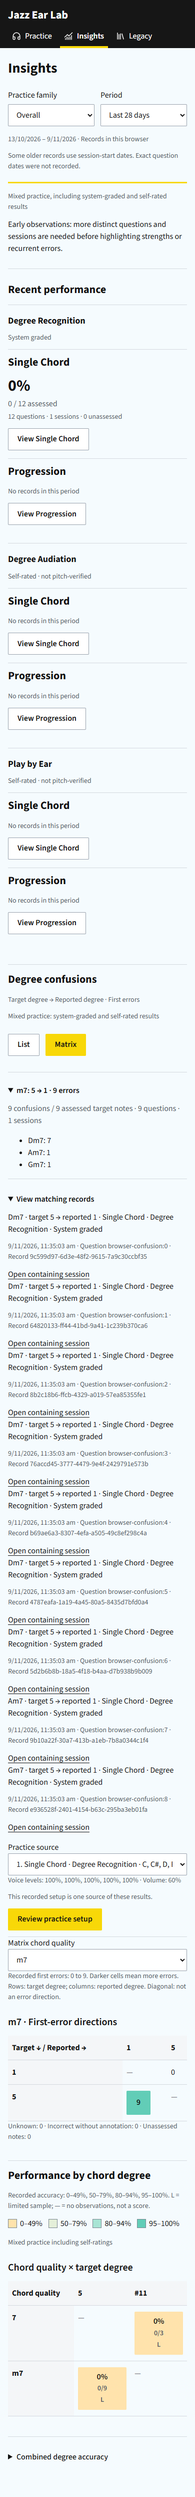
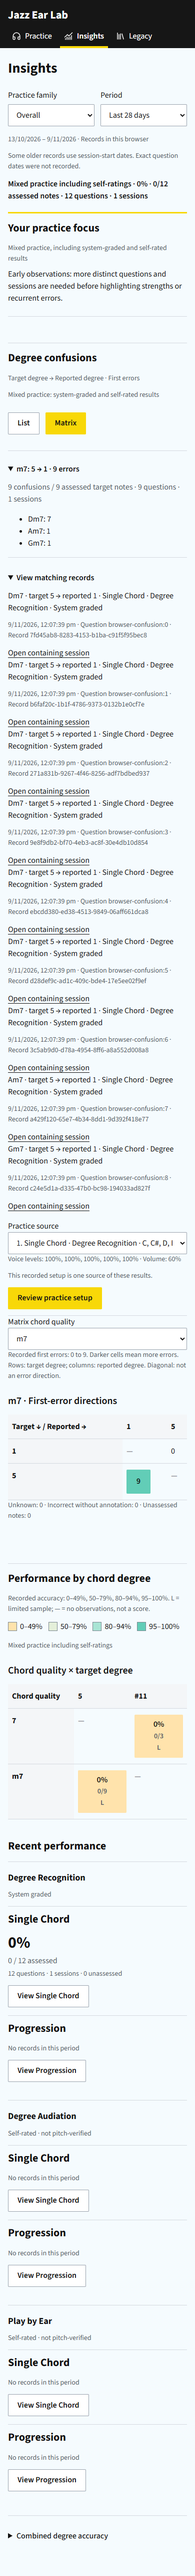
test(v2): complete Insights integration and regression acceptance (#32)

Changed region(s): [[0.0308, 0.0, 0.9538, 0.995], [0.7692, 0.3109, 0.8615, 0.342]]

diff --git a/src/v2/insights-ui.ts b/src/v2/insights-ui.ts
@@ -7,7 +7,7 @@ function recordedSources(records:InsightRecord[]){return [...new Map(records.fil
 function sourceOptionLabel(r:InsightRecord,i:number){const c=r.source,levels='mode'in c?c.levels:c.voiceLevels??[1,1,1,1,1];return `${i+1}. ${exerciseNames[r.a.exercise]} · ${insightConditionLabel(r)} · Volume ${Math.round(c.volume*100)}% · Voices ${levels.map(v=>Math.round(v*100)+'%').join(', ')}`;}
 
 function practiceSummarySection(records:InsightRecord[],onSetup?: (record:InsightRecord,label:string,filters:InsightFilters)=>void){
- const report=insightPracticeSummary(records),section=el('section','','practice-summary');
+ const report=insightPracticeSummary(records),section=el('section','','insight-practice-summary');
  section.append(el('h2','Your practice focus'));
  if(view.family==='Overall')section.append(el('p','Mixed practice, including system-graded and self-rated results','insight-scope-note'));
  if(report.message)section.append(el('p',report.message));
@@ -172,6 +172,7 @@ try{const saved=JSON.parse(sessionStorage.getItem('jazzEarLab:v2:insightView')??
 function el<K extends keyof HTMLElementTagNameMap>(tag:K,text='',cls=''){const n=document.createElement(tag);n.textContent=text;n.className=cls;return n;}
 function details(title:string,...nodes:HTMLElement[]){const n=el('details');n.append(el('summary',title),...nodes);return n;}
 const percent=(m:ReturnType<typeof insightStats>)=>m.n?Math.round(100*m.correct/m.n)+'%':'—';
+function musicalOverview(records:InsightRecord[],onSetup?: (record:InsightRecord,label:string,filters:InsightFilters)=>void){const n=el('div','','insight-musical-overview');n.append(confusionSection(records,onSetup),performanceSection(records,onSetup));return n;}
 export function renderInsights(host:HTMLElement,sessions:Session[],runs:InsightRun[],evidence:Attempt[],onSetup?:(record:InsightRecord,label:string,filters:InsightFilters)=>void){
  const all=insightRecords(sessions,runs,evidence);
  function render(){
@@ -203,14 +204,18 @@ export function renderInsights(host:HTMLElement,sessions:Session[],runs:InsightR
   host.append(el('p',(view.days?`${dateLabel(period.start)} – ${dateLabel(period.end-1)}`:'All recorded dates')+' · Records in this browser','insight-scope-note'));
   if(all.some(r=>r.dateSource==='session'))host.append(el('p','Some older records use session-start dates. Exact question dates were not recorded.','insight-scope-note'));
   if(all.some(r=>r.time===null))host.append(el('p',`${all.filter(r=>r.time===null).length} records have no usable date; available in All time.`,'insight-scope-note'));
+  const currentScope=el('div','','insight-current-scope');host.append(currentScope);
+  const scopeFilters=Object.entries({key:view.key,root:view.root,quality:view.quality,chord:view.chord,degree:view.degree}).filter(([,value])=>value);
+  if(scopeFilters.length)currentScope.append(el('p','Filters: '+scopeFilters.map(([key,value])=>key+': '+value+(key==='key'&&view.family==='Overall'?' (progression only)':'')).join(' · ')));
   const outcome=(records:InsightRecord[],title:string,compact=false)=>{const m=insightStats(records),block=el('section','','insight-outcome');block.setAttribute('aria-label',title);if(compact&&!m.questions){block.append(el('h2',title),el('p','No records in this period','insight-scope-note'));return block;}block.append(el('h2',title),el('p',percent(m),'metric-number'),el('p',`${m.correct} / ${m.n} assessed`,'assessment-count'),el('p',`${m.questions} questions · ${m.sessions} sessions · ${m.unassessed} unassessed`,'insight-scope-note'));if(!compact||m.replayed)block.append(el('p',`Replay-assisted first responses: ${m.replayed} / ${m.n}`,'insight-scope-note'));block.dataset.assessed=String(m.n);block.dataset.correct=String(m.correct);return block;};
   if(view.family==='Overall'){
    const overviewRows=insightFilter(scope,{root:view.root,quality:view.quality,chord:view.chord,degree:view.degree}).filter(r=>!view.key||r.context==='Single Chord'||r.key===view.key);
-   host.append(practiceSummarySection(overviewRows,onSetup),el('h2','Recent performance'));
-   const active=Object.entries({key:view.key,root:view.root,quality:view.quality,chord:view.chord,degree:view.degree}).filter(([,value])=>value);if(active.length)host.append(el('p','Filters: '+active.map(([key,value])=>key+': '+value+(key==='key'?' (progression only)':'')).join(' · ')),button('Clear filters',reset));
+   const total=insightStats(overviewRows);host.append(el('p',`Mixed practice including self-ratings · ${percent(total)} · ${total.correct}/${total.n} assessed notes · ${total.questions} questions · ${total.sessions} sessions`,'insight-total-line'));
+   host.append(practiceSummarySection(overviewRows,onSetup),musicalOverview(overviewRows,onSetup),el('h2','Recent performance'));
+   if(scopeFilters.length)currentScope.append(button('Clear filters',reset));
    if(!scope.length){host.append(el('p',all.length?'No matching records in this period. Try a wider period.':'No V2 records in this browser. Choose an exercise to begin.'),button('Show all time',()=>{view.days=0;}));const link=el('a','Choose an exercise');link.href='#home';host.append(link);finish();return;}
    for(const family of families){const section=el('section','','insight-family');section.append(el('h3',family),el('p',family==='Degree Recognition'?'System graded':'Self-rated · not pitch-verified','insight-scope-note'));const grid=el('div','','insight-family-contexts');for(const context of ['Single Chord','Progression'] as const){const records=overviewRows.filter(r=>r.family===family&&r.context===context),block=outcome(records,context,true);const enter=button('View '+context+' · '+family,()=>changeScope(family,context));enter.setAttribute('aria-label','View '+context+' · '+family);enter.textContent='View '+context;block.append(enter);grid.append(block);}section.append(grid);host.append(section);}
-   host.append(confusionSection(overviewRows,onSetup),performanceSection(overviewRows,onSetup),details('Combined degree accuracy',outcome(overviewRows,'Mixed practice including self-ratings')));
+   host.append(details('Combined degree accuracy',outcome(overviewRows,'Mixed practice including self-ratings')));
   }else{
    const mode=Object.entries(exerciseNames).find(([,name])=>name===view.context+' · '+view.family)![0];
    const allMode=all.filter(r=>r.a.exercise===mode).filter(r=>(!view.condition||insightStratum(r)===view.condition)&&(!view.setup||insightSetupId(r)===view.setup)).filter(r=>mode!=='m1'||view.production==='all'||(view.production==='played'?r.a.responseMethod==='played':['imagined','sung'].includes(r.a.responseMethod)));
@@ -218,8 +223,8 @@ export function renderInsights(host:HTMLElement,sessions:Session[],runs:InsightR
    let rows=insightFilter(modeRows,{key:view.key,root:view.root,quality:view.quality,chord:view.chord,degree:view.degree});
    if(mode==='m1'&&view.production!=='all')rows=rows.filter(r=>view.production==='played'?r.a.responseMethod==='played':['imagined','sung'].includes(r.a.responseMethod));
    host.append(el('h2',view.context+' · '+view.family),el('p',view.family==='Degree Recognition'?'System graded':'Self-rated · not pitch-verified','insight-assessment'));
-   host.append(practiceSummarySection(rows,onSetup));
    const result=outcome(rows,view.family==='Degree Recognition'?'First-answer accuracy':'Self-rated accuracy');host.append(result);
+   host.append(practiceSummarySection(rows,onSetup));
    if(!modeRows.length||!rows.length){
     host.append(el('p',Object.entries({key:view.key,root:view.root,quality:view.quality,chord:view.chord,degree:view.degree}).filter(([,value])=>value).map(([key,value])=>key+': '+value).join(' · '),'insight-scope-note'));
     host.append(el('p',!rows.length&&modeRows.length?'No records match these filters.':all.some(r=>r.a.exercise===mode)?'No matching records in this period. Try a wider period.':'No records for this exercise yet.'),button('Show all time',()=>{view.days=0;}),button('Clear filters',()=>{reset();view.production='all';}),button('Practice '+exerciseNames[mode as keyof typeof exerciseNames],()=>{const progression=modeForExercise(mode);location.hash=progression?'progression/'+progression:'home';}));finish();return;
@@ -241,12 +246,12 @@ export function renderInsights(host:HTMLElement,sessions:Session[],runs:InsightR
     if(onSetup&&item.basis.sourceKnown){const setup=button('Setup practice: '+item.label,()=>onSetup(item.basis,item.label,item.filters));setup.setAttribute('aria-label','Setup practice: '+item.label);setup.textContent='Setup practice';setup.classList.remove('secondary');row.append(setup);}
     const evidenceButton=button('View evidence: '+item.label,()=>{reset();Object.assign(view,item.filters);if(item.kind==='error')view.condition=insightStratum(item.basis)??'';else view.setup=insightSetupId(item.basis);view.dimension=item.filters.degree?'Degree':'Chord';});evidenceButton.setAttribute('aria-label','View evidence: '+item.label);evidenceButton.textContent='View evidence';row.append(evidenceButton);
     (item.kind==='gap'?coverage:next).append(row);
-   }next.append(coverage);const lead=el('div','','insight-lead'),performance=el('div');performance.append(result,trendSection);lead.append(performance,next);host.append(lead);
-   host.append(confusionSection(rows,onSetup),performanceSection(rows,onSetup));
+   }next.append(coverage);const lead=el('div','','insight-lead'),performance=el('div');performance.append(trendSection);lead.append(performance,next);
+   host.append(musicalOverview(rows,onSetup),lead);
    const analysis=el('section','','insight-analysis');analysis.append(el('h2','Explore the music'));
    const tabs=el('div','','insight-tabs');
    for(const name of ['Key','Chord','Degree'])tabs.append(button(name==='Key'&&view.context==='Single Chord'?'Chord root':name,()=>{view.dimension=name;view.all=false;},view.dimension===name));analysis.append(tabs);
-   const chips=el('div','','insight-chips');if(view.condition)chips.append(button('Matching practice conditions · remove',()=>{view.condition='';}));if(view.setup)chips.append(button('Coverage setup · remove',()=>{view.setup='';}));for(const name of ['key','root','quality','chord','degree'] as const)if(view[name])chips.append(button(name+': '+view[name]+' · remove',()=>{view[name]='';}));if(chips.children.length)chips.append(button('Clear filters',reset));analysis.append(chips);
+   const chips=el('div','','insight-chips');if(view.condition)chips.append(button('Matching practice conditions · remove',()=>{view.condition='';}));if(view.setup)chips.append(button('Coverage setup · remove',()=>{view.setup='';}));for(const name of ['key','root','quality','chord','degree'] as const)if(view[name])chips.append(button(name+': '+view[name]+' · remove',()=>{view[name]='';}));if(chips.children.length)chips.append(button('Clear filters',reset));currentScope.replaceChildren(chips);
    const filters=el('div','','insight-filters');
    filters.append(select('Root',view.root||'All roots',['All roots',...new Set(modeRows.map(r=>r.root))],v=>{view.root=v==='All roots'?'':v;}),select('Chord quality',view.quality||'All qualities',['All qualities',...new Set(modeRows.map(r=>r.quality))],v=>{view.quality=v==='All qualities'?'':v;}));
    if(mode==='m1')filters.append(select('Production category',view.production,['all','imagined-sung','played'],v=>{view.production=v;}));

diff --git a/js/v2/insights-ui.js b/js/v2/insights-ui.js
@@ -4,7 +4,7 @@ import { insightConfusions, insightHeatmap, insightConfusionMatrix, insightPract
 function recordedSources(records) { return [...new Map(records.filter(r => r.sourceKnown).map(r => [r.a.exercise + '|' + insightSetupId(r), r])).values()]; }
 function sourceOptionLabel(r, i) { const c = r.source, levels = 'mode' in c ? c.levels : c.voiceLevels ?? [1, 1, 1, 1, 1]; return `${i + 1}. ${exerciseNames[r.a.exercise]} · ${insightConditionLabel(r)} · Volume ${Math.round(c.volume * 100)}% · Voices ${levels.map(v => Math.round(v * 100) + '%').join(', ')}`; }
 function practiceSummarySection(records, onSetup) {
-    const report = insightPracticeSummary(records), section = el('section', '', 'practice-summary');
+    const report = insightPracticeSummary(records), section = el('section', '', 'insight-practice-summary');
     section.append(el('h2', 'Your practice focus'));
     if (view.family === 'Overall')
         section.append(el('p', 'Mixed practice, including system-graded and self-rated results', 'insight-scope-note'));
@@ -411,6 +411,7 @@ catch { /* View preferences never block history. */ }
 function el(tag, text = '', cls = '') { const n = document.createElement(tag); n.textContent = text; n.className = cls; return n; }
 function details(title, ...nodes) { const n = el('details'); n.append(el('summary', title), ...nodes); return n; }
 const percent = (m) => m.n ? Math.round(100 * m.correct / m.n) + '%' : '—';
+function musicalOverview(records, onSetup) { const n = el('div', '', 'insight-musical-overview'); n.append(confusionSection(records, onSetup), performanceSection(records, onSetup)); return n; }
 export function renderInsights(host, sessions, runs, evidence, onSetup) {
     const all = insightRecords(sessions, runs, evidence);
     function render() {
@@ -484,6 +485,11 @@ export function renderInsights(host, sessions, runs, evidence, onSetup) {
             host.append(el('p', 'Some older records use session-start dates. Exact question dates were not recorded.', 'insight-scope-note'));
         if (all.some(r => r.time === null))
             host.append(el('p', `${all.filter(r => r.time === null).length} records have no usable date; available in All time.`, 'insight-scope-note'));
+        const currentScope = el('div', '', 'insight-current-scope');
+        host.append(currentScope);
+        const scopeFilters = Object.entries({ key: view.key, root: view.root, quality: view.quality, chord: view.chord, degree: view.degree }).filter(([, value]) => value);
+        if (scopeFilters.length)
+            currentScope.append(el('p', 'Filters: ' + scopeFilters.map(([key, value]) => key + ': ' + value + (key === 'key' && view.family === 'Overall' ? ' (progression only)' : '')).join(' · ')));
         const outcome = (records, title, compact = false) => { const m = insightStats(records), block = el('section', '', 'insight-outcome'); block.setAttribute('aria-label', title); if (compact && !m.questions) {
             block.append(el('h2', title), el('p', 'No records in this period', 'insight-scope-note'));
             return block;
@@ -491,10 +497,11 @@ export function renderInsights(host, sessions, runs, evidence, onSetup) {
             block.append(el('p', `Replay-assisted first responses: ${m.replayed} / ${m.n}`, 'insight-scope-note')); block.dataset.assessed = String(m.n); block.dataset.correct = String(m.correct); return block; };
         if (view.family === 'Overall') {
             const overviewRows = insightFilter(scope, { root: view.root, quality: view.quality, chord: view.chord, degree: view.degree }).filter(r => !view.key || r.context === 'Single Chord' || r.key === view.key);
-            host.append(practiceSummarySection(overviewRows, onSetup), el('h2', 'Recent performance'));
-            const active = Object.entries({ key: view.key, root: view.root, quality: view.quality, chord: view.chord, degree: view.degree }).filter(([, value]) => value);
-            if (active.length)
-                host.append(el('p', 'Filters: ' + active.map(([key, value]) => key + ': ' + value + (key === 'key' ? ' (progression only)' : '')).join(' · ')), button('Clear filters', reset));
+            const total = insightStats(overviewRows);
+            host.append(el('p', `Mixed practice including self-ratings · ${percent(total)} · ${total.correct}/${total.n} assessed notes · ${total.questions} questions · ${total.sessions} sessions`, 'insight-total-line'));
+            host.append(practiceSummarySection(overviewRows, onSetup), musicalOverview(overviewRows, onSetup), el('h2', 'Recent performance'));
+            if (scopeFilters.length)
+                currentScope.append(button('Clear filters', reset));
             if (!scope.length) {
                 host.append(el('p', all.length ? 'No matching records in this period. Try a wider period.' : 'No V2 records in this browser. Choose an exercise to begin.'), button('Show all time', () => { view.days = 0; }));
                 const link = el('a', 'Choose an exercise');
@@ -518,7 +525,7 @@ export function renderInsights(host, sessions, runs, evidence, onSetup) {
                 section.append(grid);
                 host.append(section);
             }
-            host.append(confusionSection(overviewRows, onSetup), performanceSection(overviewRows, onSetup), details('Combined degree accuracy', outcome(overviewRows, 'Mixed practice including self-ratings')));
+            host.append(details('Combined degree accuracy', outcome(overviewRows, 'Mixed practice including self-ratings')));
         }
         else {
             const mode = Object.entries(exerciseNames).find(([, name]) => name === view.context + ' · ' + view.family)[0];
@@ -528,9 +535,9 @@ export function renderInsights(host, sessions, runs, evidence, onSetup) {
             if (mode === 'm1' && view.production !== 'all')
                 rows = rows.filter(r => view.production === 'played' ? r.a.responseMethod === 'played' : ['imagined', 'sung'].includes(r.a.responseMethod));
             host.append(el('h2', view.context + ' · ' + view.family), el('p', view.family === 'Degree Recognition' ? 'System graded' : 'Self-rated · not pitch-verified', 'insight-assessment'));
-            host.append(practiceSummarySection(rows, onSetup));
             const result = outcome(rows, view.family === 'Degree Recognition' ? 'First-answer accuracy' : 'Self-rated accuracy');
             host.append(result);
+            host.append(practiceSummarySection(rows, onSetup));
             if (!modeRows.length || !rows.length) {
                 host.append(el('p', Object.entries({ key: view.key, root: view.root, quality: view.quality, chord: view.chord, degree: view.degree }).filter(([, value]) => value).map(([key, value]) => key + ': ' + value).join(' · '), 'insight-scope-note'));
                 host.append(el('p', !rows.length && modeRows.length ? 'No records match these filters.' : all.some(r => r.a.exercise === mode) ? 'No matching records in this period. Try a wider period.' : 'No records for this exercise yet.'), button('Show all time', () => { view.days = 0; }), button('Clear filters', () => { reset(); view.production = 'all'; }), button('Practice ' + exerciseNames[mode], () => { const progression = modeForExercise(mode); location.hash = progression ? 'progression/' + progression : 'home'; }));
@@ -591,10 +598,9 @@ export function renderInsights(host, sessions, runs, evidence, onSetup) {
             }
             next.append(coverage);
             const lead = el('div', '', 'insight-lead'), performance = el('div');
-            performance.append(result, trendSection);
+            performance.append(trendSection);
             lead.append(performance, next);
-            host.append(lead);
-            host.append(confusionSection(rows, onSetup), performanceSection(rows, onSetup));
+            host.append(musicalOverview(rows, onSetup), lead);
             const analysis = el('section', '', 'insight-analysis');
             analysis.append(el('h2', 'Explore the music'));
             const tabs = el('div', '', 'insight-tabs');
@@ -611,7 +617,7 @@ export function renderInsights(host, sessions, runs, evidence, onSetup) {
                     chips.append(button(name + ': ' + view[name] + ' · remove', () => { view[name] = ''; }));
             if (chips.children.length)
                 chips.append(button('Clear filters', reset));
-            analysis.append(chips);
+            currentScope.replaceChildren(chips);
             const filters = el('div', '', 'insight-filters');
             filters.append(select('Root', view.root || 'All roots', ['All roots', ...new Set(modeRows.map(r => r.root))], v => { view.root = v === 'All roots' ? '' : v; }), select('Chord quality', view.quality || 'All qualities', ['All qualities', ...new Set(modeRows.map(r => r.quality))], v => { view.quality = v === 'All qualities' ? '' : v; }));
             if (mode === 'm1')

diff --git a/jazz-ear-lab-v2/v2.css b/jazz-ear-lab-v2/v2.css
@@ -504,11 +504,22 @@ input[type="number"], output, .session-count, .assessment-count, .unassessed,
 .confusion-cell[data-intensity=high]{background:#62cdb7;}
 .confusion-cell[data-intensity=medium]{background:#a8e4d4;}
 .confusion-cell[data-intensity=low]{background:#e0f5ee;}
-.practice-summary{border-top:3px solid #f8d808;border-bottom:1px solid #d4d9df;padding:16px 0;margin:20px 0 28px;}
+.insight-practice-summary{border-top:3px solid #f8d808;border-bottom:1px solid #d4d9df;padding:16px 0;margin:20px 0 28px;}
+.insight-practice-summary p{margin:8px 0;}
+.insight-practice-summary details{padding:8px 0;margin-top:8px;}
+.insight-practice-summary summary{min-height:44px;}
 .summary-finding{padding:8px 0;}
 .summary-finding .summary-text{font-size:1.125rem;max-width:72ch;}
 .summary-finding p,.summary-finding li{overflow-wrap:anywhere;}
 .summary-finding select{width:100%;min-width:0;max-width:100%;}
+.insight-musical-overview{display:grid;grid-template-columns:minmax(0,1fr);gap:24px;}
+.insight-musical-overview>section{min-width:0;}
+.insights-work>.insight-outcome{display:flex;flex-wrap:wrap;align-items:baseline;gap:8px 16px;padding:8px 0;}
+.insights-work>.insight-outcome h2{font-size:1rem;margin:0;}
+.insights-work>.insight-outcome p{margin:0;}
+.insights-work>.insight-outcome .metric-number{font-size:1.75rem;}
+.insight-total-line{font-weight:600;}
+@media(min-width:1000px){.insight-musical-overview{grid-template-columns:minmax(0,1fr) minmax(0,1.2fr);}}
 @media(max-width:600px){
  .insight-confusions{display:flex;flex-direction:column;}
  .insight-confusions .confusion-list{order:1;}

diff --git a/V2_INSIGHTS_REDESIGN_DELIVERY.md b/V2_INSIGHTS_REDESIGN_DELIVERY.md
@@ -1,0 +1,111 @@
+# Insights narrative and matrices: delivery record
+
+Specification: GitHub #26. Design #27; functional slices #28-31; integration #32.
+Branch: v2/ux-audio-refinement. This record does not imply deployment to main.
+
+## Delivered behavior
+
+- Compact scoped accuracy/counts precede an evidence-backed local narrative.
+- At most three supported findings, with exact evidence and identifiable source
+  settings for the existing practice preview. No external AI or record upload.
+- Primary quality-specific degree confusion list and count matrix share the
+  same deduplicated first outcomes; Unknown/unspecified/unassessed stay separate.
+- Quality-by-degree performance matrix exposes percentages, counts and support
+  status without relying on colour. Actual musical spellings are preserved.
+- Desktop confusion/performance views are side by side; mobile stacks them.
+  The narrative's heading is visible on mobile: its CSS class no longer collides
+  with the existing configuration-summary disclosure styles.
+- Coverage guidance has its own source controls; changing them cannot reset a
+  summary source choice. Supporting matched-condition suggestions remain labelled
+  as a narrower population than the descriptive aggregate.
+- Retained scope and clear/remove actions appear before the narrative, including
+  when moving from a filtered mode to Overall; filtered totals are not presented
+  as an unfiltered headline.
+- Source sessions, presets, first grades, timing policies and Legacy are intact.
+
+## Verification
+
+Passed on Windows/Edge: `npm test` (178 Node tests), the complete updated
+`npm run test:v2` chain (including layout/state and six Insights scripts),
+`npm run test:v2:keys-play`, `tests/browser.mjs` and
+`tests/browser-legacy-insights.mjs`. The former Roots timeout is resolved in the
+test harness without changing the application's checkbox behavior.
+
+The integration fixture covers all six V2 exercises, equal inclusion of recorded
+self-ratings, Overall 531/567 from 162 questions across 18 sessions, duplicate
+assessment IDs, M1 imagined/sung versus played, a separate 45-day-old result,
+period exclusions, Root/Key/Quality/Degree filters, exact confusion evidence,
+recorded-source preview and real Back to Insights navigation. Storage bytes are
+compared before and after. Both oscillator and buffer-source creation are
+instrumented before page load to detect unintended audio during exploration.
+
+Focused source-choice tests cover multiple volume setups and their persistence
+across preview return and changes to unrelated Coverage controls. Unit fixtures
+cover Unknown, missing annotation, unassessed results, retries/immutable grades,
+support gates, distinct notes/questions/sessions and deliberate alterations.
+
+Responsive fixtures cover 1440/390/320px, an 18-degree matrix, keyboard activation
+and return focus, and bounded table scrolling. 200% content scaling uses CSS
+zoom in Edge, not a claim of testing every browser's native zoom UI. Axe was run
+with WCAG 2 A/AA and 2.1 AA tags on the filtered integration view; zero violations
+were reported. This is not exhaustive accessibility certification.
+
+## Test migration
+
+The old homepage and Split Desk scripts predate the six-mode application,
+per-quality pools, source-preview handoff and new Insights. They remain in the
+repository as historical checks, but are no longer default-run acceptance for
+removed UI contracts. The runner now uses the current six-entry homepage test,
+maintained layout/state tests and all Insights tests instead. The new homepage
+test preserves independent root/quality/pool editing, autosave, source isolation,
+frozen session configuration and Restore Default checks. Existing playback,
+retry/reveal, M1 grading and lifecycle scripts remain in the default V2 runner.
+
+The existing general V2 script now pins root checkbox identity before clicking
+instead of retrying a moving :checked.first() locator. Invalid-setting copy and
+preset disclosure interaction match the current UI while retaining storage
+protection assertions. M1 timing-version evidence is checked through the current
+technical-details disclosure instead of a removed mandatory cohort selector.
+
+## Visual review
+
+Compared with the approved boards in
+`.impeccable/mocks/insights-summary-2026-11-09/`: preserve compact accuracy first,
+prominent narrative, primary confusion, adjacent desktop performance matrix and
+mobile stacking. Secondary source/history/efficiency controls remain reachable.
+The screenshots use synthetic records and different device proportions; this is
+a structural comparison, not pixel-identical comp certification. Actual rendered
+views are in `.impeccable/review/v2-insights-integration/`.
+
+Two-axis review findings were addressed with observable layout/heading checks,
+old-period exclusions, integrated filtered evidence/preview return, pre-load
+oscillator and buffer guards, explicit Windows runner prerequisites, and a
+regression assertion that retained Overall scope precedes the narrative.
+
+## Manual limits
+
+Not performed: physical iOS/Android devices, VoiceOver/NVDA interaction, native
+browser zoom UI and real speaker/headphone listening. Existing unit/browser audio
+checks protect scheduling and recorded outcomes, not perceived acoustic quality.
+No cloud sync, new module, new grading method or Release 2 behavior was added.
+
+## Windows browser-test setup
+
+The aggregate runner now includes maintained layout and Insights scripts. These
+need both `PLAYWRIGHT_MODULE` and `PLAYWRIGHT_CHROMIUM_EXECUTABLE` on Windows;
+setting only the module URI is insufficient for scripts with a Linux fallback.
+An isolated test-only installation (not a production dependency) can be used:
+
+```powershell
+npm install --prefix "$env:TEMP/jazz-ear-lab-check" playwright axe-core
+$module = Join-Path $env:TEMP 'jazz-ear-lab-check/node_modules/playwright/index.mjs'
+$env:PLAYWRIGHT_MODULE = ([Uri]$module).AbsoluteUri
+$env:PLAYWRIGHT_CHROMIUM_EXECUTABLE = "${env:ProgramFiles(x86)}\Microsoft\Edge\Application\msedge.exe"
+npm run test:v2
+```
+
+Run with the local dev server already serving port 4173. For the additional
+axe-backed integration check, set `QUALITY_AXE_PATH` to that installation's
+`node_modules/axe-core/axe.min.js` and run
+`node tests/browser-v2-insights-integration.mjs`. Axe does not replace manual
+screen-reader or physical-device testing.
